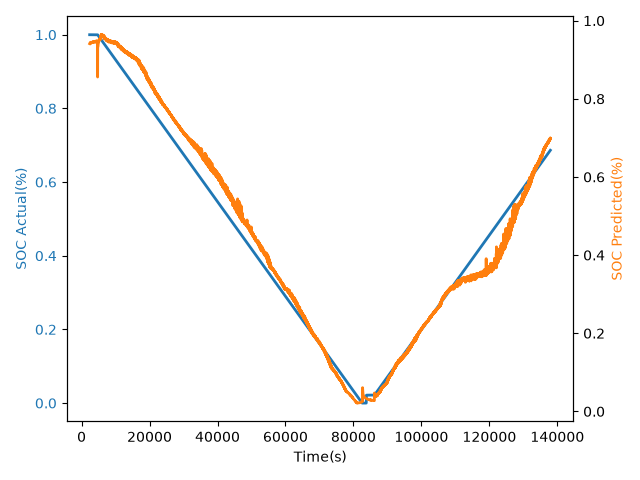
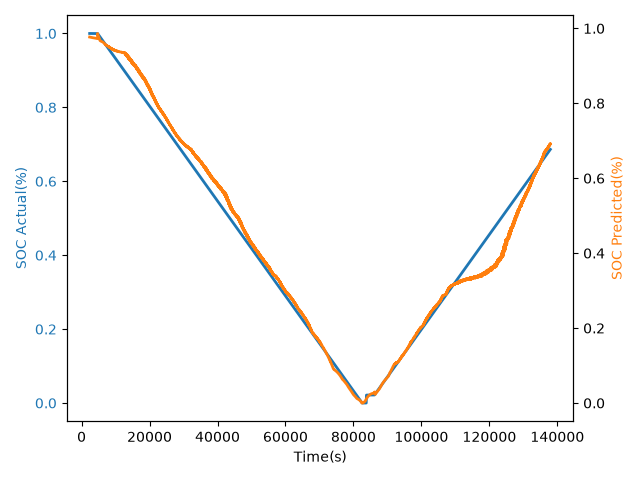
NEW: Added README.md; Tried different testing sets

diff --git a/main.py b/main.py
@@ -27,7 +27,12 @@ class Battery:
         intern_resistance = []
         delta_v = self.voltage[0]
         delta_i = self.current[0]
+
+        MAX_ELEM_WEIGHT = 100
+        weighted_v = []
+        weighted_i = []
         for i, cur in enumerate(self.current):
+            # Calculate the internal resistance
             delta_v = abs(delta_v-self.voltage[i])
             delta_i = abs(delta_i-self.voltage[i])
             if delta_i==0:
@@ -36,6 +41,10 @@ class Battery:
                 intern_resistance.append(delta_v/delta_i)
             delta_v = self.voltage[i]
             delta_i = self.current[i]
+
+            # Calculate weighted average of voltage and current
+            weighted_v.append(sum(self.voltage[i-MAX_ELEM_WEIGHT if i>MAX_ELEM_WEIGHT else 0:i])/MAX_ELEM_WEIGHT)
+            weighted_i.append(sum(self.current[i-MAX_ELEM_WEIGHT if i>MAX_ELEM_WEIGHT else 0:i])/MAX_ELEM_WEIGHT)
             if cur!=0:
                 blocks = 0
                 start_counting = False
@@ -49,7 +58,9 @@ class Battery:
                     elif self.voltage[i]<self.min_vol:
                         self.min_vol = self.voltage[i]
 
-        self.data = np.column_stack((self.data, np.array(intern_resistance)))
+        #self.data = np.column_stack((self.data, np.array(intern_resistance)))
+        self.data = np.column_stack((self.data, np.array(weighted_v)))
+        self.data = np.column_stack((self.data, np.array(weighted_i)))
         self.data = self.data[self.voltage_index[0]:self.voltage_index[-1]]
         self.time = self.time[self.voltage_index[0]:self.voltage_index[-1]]
 
@@ -82,15 +93,14 @@ LC_OCV_008 = Battery("data/LC-OCV/OCV0-20120618/A1-008-OCV0-20120618.xlsx", "Cha
 LC_OCV_008.print_data();
 #LC_OCV_008.draw_graphs()
 
+split_at = int(len(LC_OCV_008.data)*0.85)
 xtrain = LC_OCV_007.data
 ytrain = LC_OCV_007.soc_charge
-split_at = int(len(LC_OCV_008.data)*0.85)
 xval = LC_OCV_008.data[split_at:]
 yval = LC_OCV_008.soc_charge[split_at:]
 xtest = LC_OCV_008.data[:split_at]
 ytest = LC_OCV_008.soc_charge[:split_at]
 fnn = FNN(xtrain, ytrain, xval, yval, xtest, ytest);
 fnn.train()
-fnn.save()
 fnn.evaluate()
 fnn.predict(LC_OCV_008.time[:split_at])

diff --git a/FNN.py b/FNN.py
@@ -49,7 +49,7 @@ class FNN:
     def evaluate(self):
       test_loss, test_mae = self.model.evaluate(self.scaler.transform(self.xtest), self.ytest, verbose=0)
 
-      print(f"FNN Weak:\n\tTest Loss: {test_loss}\n\tTest MAE: {test_mae}")
+      print(f"FNN:\n\tTest Loss: {test_loss}\n\tTest MAE: {test_mae}")
 
     def predict(self, time):
         y_pred = self.model.predict(self.scaler.transform(self.xtest))

diff --git a/README.md b/README.md
@@ -1,0 +1,43 @@
+# Introduction
+
+This project was created to find ML models that can accurately estimate the SOC(State of Charge) of a EV battery pack
+
+# Dataset
+
+For the project, the Calce A123 battery dataset was used
+
+Key features are:
+- Capacity of new battery is 1.1Ah
+
+The dataset includes 2 types of test, the LC-OCV(Low Current Open Circuit Voltage) and the DPF(Dynamic Profile Files) which has FUDS and DST results
+
+The experiment was started by using the 0 degree dataset.
+
+![SOC-Voltage vs Time](output/battery/soc-volt-vs-time.png)
+
+## Shortcomings
+
+### Flat Curve
+
+The A123 battery uses the LiFePO4 chemistry. This battery type has a near flat voltage  curve from 20-80% SOC. Due to this, models have to be trained for different SOC at basically the same voltage and current values
+
+### No SOH
+
+The model cannot be trained on SOH, or be able to predict it as there is no data between each cycle. So SOH can only be measured for a dataset.
+As the SOH practically remains the same within a cycle. Training a model on it will cause the SOH parameter to not be considered
+
+# Basic Tests
+
+The first model to be trained is a FNN. It was trained on the 0 degree LC-OCV dataset
+
+### Data Separation
+
+Training: Cell 007 LC-OCV 0 degree dataset
+Validation: Cell 008 LC-OCV 0 degree dataset; Last 15% of samples
+Testing: Cell 008 LC-OCV 0 degree dataset; First 85% of samples
+
+![SOC Actual vs Predicted](output/models/FNN/soc-actual-vs-pred.png)
+
+The MAE is `2.6%`
+
+The model is trained well for SOC < 30%. But other than that, it has errors, that is due to the flat curve of the dataset
